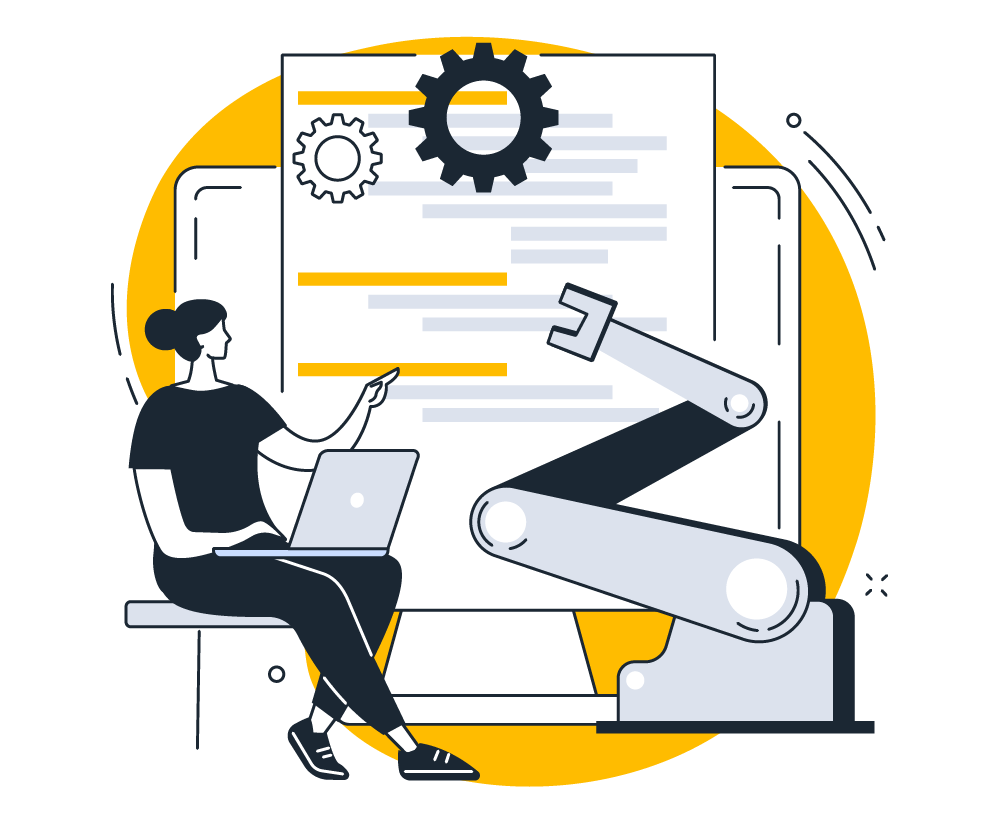
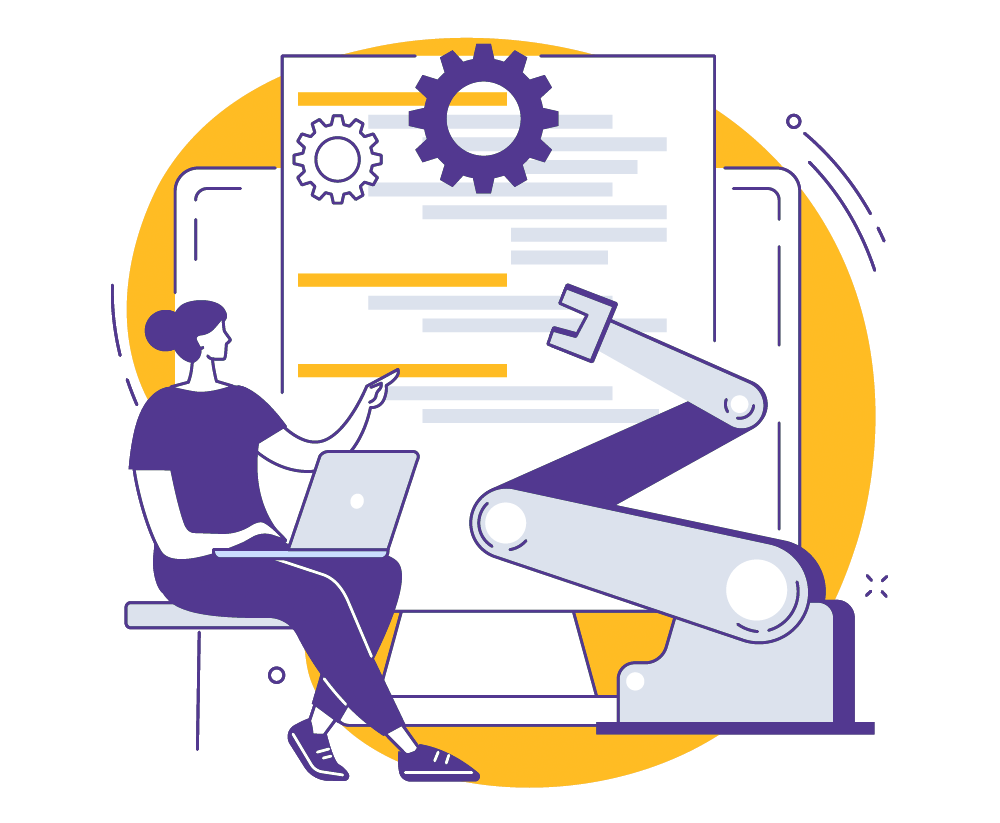
ajustes de css e imagem

diff --git a/styles/colors.scss b/styles/colors.scss
@@ -2,5 +2,5 @@ $primary : #DA3659;
 $secondary : #5D3BA2;
 $text-primary : #444;
 $text-secondary : #E0DAED;
-$highlight : #FECD19;
+$highlight : #ffbd00;
 $line : #ccc;
